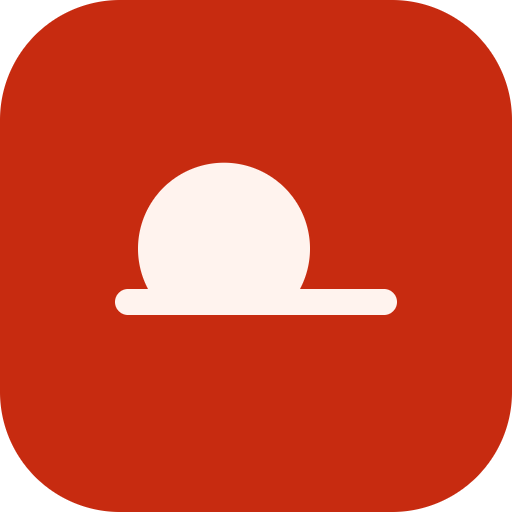
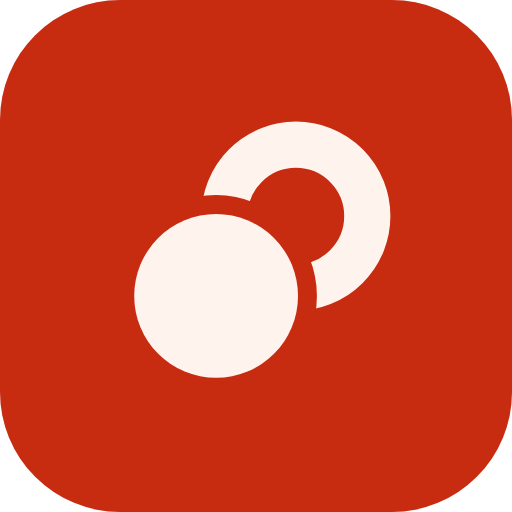
feat: 로고 마크 교체 — 원 둘, 하나는 열려 있다 (#23)
* feat: 로고 마크 교체 — 원 둘, 하나는 열려 있다

플레이스홀더였던 "지평선에 걸린 해" 를 대체한다. 그 마크가 올드하게 읽힌 이유는
이름을 그림으로 그대로 받아 적은 구조였기 때문이다(애프터선셋 → 해 + 지평선).

대신 서비스가 하는 일을 그린다. 한 번에 한 사람만 소개하고(원 둘, 그 이상 없음),
그중 한 사람은 아직 열리지 않았다(윤곽만). 사선으로 놓아 하나는 내려가고 하나는
올라온다 — 저녁을 해 없이 리듬으로만 남긴 자리다.

후보를 실제 크기로 렌더해 비교했다(16·20·24·32·56px, 명/암, 코럴 타일):
- 윤곽 원 둘 → 16px 에서 두 링이 붙어 뭉갠다(앞서 접은 "누운 하트" 와 같은 실패)
- 면 둘 → 이음선이 사라져 땅콩 하나로 읽힌다
- 면 하나 + 링 하나 → 성격이 달라 작아져도 둘로 읽힌다

질량과 선을 대비시키는 것이 같은 것 둘을 나란히 두는 것보다 작은 크기에서 강하다.
이 관찰이 형태를 결정했다.

화면용과 아이콘용을 두 벌로 유지한다. 파비콘이 실제로 그려지는 16px 에서는 타일
여백을 빼면 마크에 10px 남짓만 남아 3.2 두께 링이 사라지므로, 아이콘 쪽은 링을
4.4 로 키웠다. 이음선 구현도 다르다 — mask 를 쓴 SVG 를 PNG 로 뽑으면 링이
팔각형으로 깨져서(래스터라이저가 mask 를 낮은 해상도로 처리한다) 아이콘은 코럴
원을 겹쳐 그려 틈을 만든다. 컴포넌트는 currentColor 라 배경을 모르므로 mask 가 맞다.

- LogoMark 는 useId() 로 mask id 를 만든다. 한 화면에 마크가 둘 이상 있으면
  고정 id 는 먼저 정의된 쪽으로 참조가 몰린다.
- favicon.ico 를 16·32·48 다중 크기로 다시 만들었다. Chrome 은 창이 50px 아래면
  빈 이미지를 내므로 작은 크기는 512 에서 sips 로 축소했다(처음엔 그걸 몰라
  빈 아이콘을 넣었다).
- docs/brand-assets.md — 형태 근거, 두 벌을 유지하는 이유, 자산 재생성 절차,
  빈 이미지를 걸러내는 확인법.

* feat: iOS·앱스토어 아이콘을 사각 전면 원본으로 분리

파비콘 파일을 그대로 앱 아이콘에 쓰면 안 된다. 파비콘은 스스로 둥근 타일(rx=15)
이라 코너가 투명한데, iOS 는 투명을 검게 칠하고 그 위에 자기 스퀴클 마스크를
씌운다 — 둥근 모서리 바깥에 검은 삼각형 네 개가 남는다. 앱스토어 심사도 아이콘의
투명을 받지 않는다.

brand/app-icon-ios.svg 를 따로 둔다. 모서리를 깎지 않고 배경을 전면으로 채운다.

위치·크기도 다시 잡았다. 마크의 bounding box 중심은 (16.6, 15.4) 로 캔버스 중심과
어긋나 있어서 scale 만 주고 균등하게 translate 하면 한쪽으로 몰린다.
translate = 32 - scale × (16.6, 15.4) 로 계산한다. 처음 scale 1.18 로 뽑았더니
[…]

Changed region(s): [[0.2188, 0.2188, 0.7812, 0.75]]

diff --git a/src/components/Logo.tsx b/src/components/Logo.tsx
@@ -1,23 +1,43 @@
+import { useId } from "react";
+
 import { BRAND } from "@/lib/brand";
 import { cn } from "@/lib/utils";
 
 /**
- * 로고 마크 — **교체 예정 자산이다.**
+ * 로고 마크 — 같은 크기의 원 둘. 하나는 채워져 있고 하나는 열려 있다.
  *
- * 지금은 지평선에 걸린 해다. 이름("애프터선셋")을 그림으로 그대로 설명하는
- * 구조인데, 그게 올드하게 읽히는 원인이라는 판단이 나와 새 마크를 외부에서
- * 받기로 했다. 그때까지 자리만 지킨다.
+ * ── 무엇을 그린 것인가 ──
+ * 이름을 그림으로 설명하지 않는다. 앞선 마크(지평선에 걸린 해)가 올드하게 읽힌
+ * 이유가 그것이었다 — "애프터선셋" 을 해와 지평선으로 받아 적은 구조였다.
  *
- * 검토했다가 접은 것 둘 — 기록으로 남긴다:
- *   · **윤슬**(물 위의 빛) 두 줄을 아래에 깔았었다. 24px 까지는 버텼지만,
- *     이름을 그림으로 설명하는 방향 자체를 강화하는 것이라 함께 뺐다.
- *   · **누운 하트 반쪽**으로도 읽히게 만드는 안. 32px 이상에서만 겨우 읽혀
- *     파비콘 크기를 감당하지 못했다.
+ * 대신 이 서비스가 하는 일을 그린다. 한 번에 **한 사람만** 소개하고(원 둘, 그
+ * 이상 없음), 그중 한 사람은 **아직 열리지 않았다**(윤곽만). 사선으로 놓아
+ * 하나는 내려가고 하나는 올라오게 했다 — 저녁이라는 시간을 해를 그리지 않고
+ * 리듬으로만 남긴 자리다.
+ *
+ * ── 왜 면 + 선인가 ──
+ * 후보를 실제 크기로 렌더해 비교했다(16·20·24·32·56px, 명/암, 코럴 타일).
+ *   · 윤곽 원 둘: 16px 에서 두 링이 붙어 뭉갠다. 앞서 접은 "누운 하트" 와 같은 실패.
+ *   · 면 둘: 16px 에서 이음선이 사라져 땅콩 하나로 읽힌다.
+ *   · **면 하나 + 링 하나**: 두 요소의 성격이 달라 작아져도 둘로 읽힌다.
+ * 질량과 선을 대비시키는 것이 같은 것 둘을 나란히 두는 것보다 작은 크기에서
+ * 강하다 — 이 마크의 형태를 결정한 관찰이다.
+ *
+ * 겹치는 자리는 mask 로 잘라 이음선을 만든다. 링을 그냥 얹으면 채운 원과 붙어
+ * 한 덩이가 된다.
  *
  * currentColor 를 쓴다 — 얹히는 자리(코럴 배경의 앱 아이콘, 종이 배경의 헤더)에
- * 따라 색을 물려받아야 한다. 새 마크도 이 조건은 유지해야 한다.
+ * 따라 색을 물려받아야 한다.
+ *
+ * ⚠ 파비콘은 이 파일이 아니라 public/favicon.svg 가 따로 들고 있다. 16px 타일
+ * 안에서는 마크가 10px 남짓으로 들어가 링이 버티지 못해서, 그쪽은 링을 더 두껍게
+ * 뽑은 별도 자산이다. 이 마크를 고치면 그 파일도 함께 고쳐야 한다.
  */
 export function LogoMark({ className }: { className?: string }) {
+  // 한 화면에 마크가 둘 이상 있을 수 있다(헤더 + 푸터). id 가 겹치면 mask 참조가
+  // 먼저 정의된 쪽으로 몰린다.
+  const maskId = `logo-seam-${useId()}`;
+
   return (
     <svg
       viewBox="0 0 32 32"
@@ -25,12 +45,20 @@ export function LogoMark({ className }: { className?: string }) {
       aria-hidden="true"
       className={cn("size-7 text-primary", className)}
     >
-      {/* 지평선 위로 드러난 부분만 남긴다 */}
-      <clipPath id="after-horizon">
-        <rect x="0" y="0" width="32" height="20.6" />
-      </clipPath>
-      <circle cx="12.8" cy="15.27" r="8.6" fill="currentColor" clipPath="url(#after-horizon)" />
-      <path d="M3.2 20.6h25.6" stroke="currentColor" strokeWidth="2.6" strokeLinecap="round" />
+      {/* 채운 원보다 조금 크게 파서 두 원 사이에 빈 틈을 남긴다 */}
+      <mask id={maskId}>
+        <rect width="32" height="32" fill="#fff" />
+        <circle cx="12.2" cy="19.8" r="9.2" fill="#000" />
+      </mask>
+      <circle
+        cx="19.8"
+        cy="12.2"
+        r="7.4"
+        stroke="currentColor"
+        strokeWidth="3.2"
+        mask={`url(#${maskId})`}
+      />
+      <circle cx="12.2" cy="19.8" r="7.8" fill="currentColor" />
     </svg>
   );
 }

diff --git a/docs/brand-assets.md b/docs/brand-assets.md
@@ -1,0 +1,160 @@
+# 브랜드 자산
+
+로고 마크를 고칠 때 함께 다시 뽑아야 하는 것들과, 뽑는 방법.
+
+---
+
+## 마크
+
+**같은 크기의 원 둘. 하나는 채워져 있고 하나는 열려 있다.**
+
+이름을 그림으로 설명하지 않는다 — 앞선 마크(지평선에 걸린 해)가 올드하게 읽힌
+이유가 그것이었다. 대신 서비스가 하는 일을 그린다. 한 번에 **한 사람만**
+소개하고(원 둘, 그 이상 없음), 그중 한 사람은 **아직 열리지 않았다**(윤곽만).
+사선으로 놓아 하나는 내려가고 하나는 올라온다 — 저녁이라는 시간을 해를 그리지
+않고 리듬으로만 남긴 자리다.
+
+### 왜 면 + 선인가
+
+후보를 실제 크기로 렌더해 비교했다(16·20·24·32·56px, 명/암, 코럴 타일).
+
+| 안 | 16px 결과 |
+|---|---|
+| 윤곽 원 둘 | 두 링이 붙어 뭉갠다. 앞서 접은 "누운 하트" 와 같은 실패 |
+| 면 둘 | 이음선이 사라져 땅콩 하나로 읽힌다 |
+| **면 하나 + 링 하나** | 두 요소의 성격이 달라 작아져도 둘로 읽힌다 |
+
+질량과 선을 대비시키는 것이 같은 것 둘을 나란히 두는 것보다 작은 크기에서 강하다.
+이 관찰이 형태를 결정했다.
+
+### 세 벌로 유지한다
+
+| | 파일 | 배경 | 이음선 | 링 두께 |
+|---|---|---|---|---|
+| 화면 | `src/components/Logo.tsx` | 없음(`currentColor`) | `mask` | 3.2 |
+| 파비콘 | `public/favicon.svg` | 둥근 타일(`rx=15`) | 코럴 원 겹쳐 그리기 | 4.4 |
+| 앱 아이콘 | `brand/app-icon-ios.svg` | **사각 전면** | 코럴 원 겹쳐 그리기 | 4.4 |
+
+**앱 아이콘이 따로 있는 이유**: 파비콘은 스스로 둥근 타일이라 코너가 투명하다.
+iOS 는 투명을 검게 칠하고 그 위에 자기 스퀴클 마스크를 씌우므로, 같은 파일을 쓰면
+둥근 모서리 바깥에 **검은 삼각형 네 개**가 남는다. 앱스토어 심사도 아이콘의 투명을
+받지 않는다. 앱 아이콘은 모서리를 깎지 않고 배경을 전면으로 채운다 — 둥글리는 일은
+OS 가 한다.
+
+마크 위치도 다르다. bounding box 중심이 캔버스 중심과 어긋나 있어(아래 참고) scale
+만 주면 한쪽으로 몰린다.
+
+    마크 bbox(32 단위): x 4.4~28.8, y 3.2~27.6 → 중심 (16.6, 15.4)
+    translate = 32 - scale × (16.6, 15.4)
+
+앱 아이콘은 `scale 1.45` 로 마크가 캔버스의 **약 55%** 다. 처음 1.18 로 뽑았더니
+46% 로 작아 아이콘 안에서 겉돌았다(관례는 55~60%).
+
+- **치수가 다른 이유**: 파비콘이 실제로 그려지는 크기는 16px 이고, 타일 안쪽 여백을
+  빼면 마크에 10px 남짓만 남는다. 그 크기에서 3.2 두께 링은 사라진다.
+- **구현이 다른 이유**: `mask` 를 쓴 SVG 를 PNG 로 뽑으면 **링이 팔각형으로 깨진다**
+  (래스터라이저가 mask 를 낮은 해상도로 처리한다). 배경색을 아는 자산이라 겹쳐
+  그리기가 가능하고, 그 편이 어떤 변환기를 거쳐도 안전하다. 컴포넌트는
+  `currentColor` 라 배경을 모르므로 그쪽은 mask 가 맞다.
+
+하나로 맞추려면 큰 화면의 마크가 둔해지거나 파비콘이 뭉개지는 것 중 하나를
+골라야 했다. 두 벌 유지가 그보다 싸다.
+
+---
+
+## 다시 뽑는 방법
+
+`public/favicon.svg` 가 모든 래스터 자산의 원본이다. 그것만 고친 뒤 아래를 돌린다.
+
+```bash
+CHROME="/Applications/Google Chrome.app/Contents/MacOS/Google Chrome"
+SVG="$PWD/public/favicon.svg"
+TMP=$(mktemp -d)
+
+# 큰 것은 Chrome 으로 직접 렌더한다.
+# ⚠ 창 크기가 50px 아래면 Chrome 이 빈 이미지를 낸다 — 작은 것은 축소로 만든다.
+for S in 512 1024; do
+  "$CHROME" --headless --disable-gpu --force-device-scale-factor=1 \
+    --screenshot="$TMP/icon-$S.png" --window-size=$S,$S \
+    --default-background-color=00000000 "file://$SVG"
+done
+
+# 작은 것은 512 에서 축소한다(sips 는 macOS 기본 도구).
+for S in 16 32 48 180; do
+  cp "$TMP/icon-512.png" "$TMP/r-$S.png" && sips -z $S $S "$TMP/r-$S.png"
+done
+
+cp "$TMP/r-180.png"    public/apple-touch-icon.png
+cp "$TMP/icon-512.png" public/icon-512.png
+```
+
+앱 아이콘은 **원본이 다르다**(`brand/app-icon-ios.svg`). 투명이 없어야 하므로
+배경을 흰색으로 지정해 렌더한다 — `--default-background-color=00000000` 을 쓰면
+알파 채널이 생긴다.
+
+```bash
+"$CHROME" --headless --disable-gpu --force-device-scale-factor=1 \
+  --screenshot="$TMP/ios-1024.png" --window-size=1024,1024 \
+  --default-background-color=ffffffff "file://$PWD/brand/app-icon-ios.svg"
+
+cp "$TMP/ios-1024.png" brand/app-store-1024.png
+cp "$TMP/ios-1024.png" \
+   'ios/App/App/Assets.xcassets/AppIcon.appiconset/AppIcon-512@2x.png'
+```
+
+`favicon.ico` 는 16·32·48 을 한 파일에 담아야 한다(윈도우·구형 브라우저가
+크기별로 골라 쓴다). 표준 라이브러리로 직접 조립한다.
+
+```bash
+python3 - "$TMP" <<'PY'
+import struct, sys
+tmp = sys.argv[1]
+imgs = [(s, open(f'{tmp}/r-{s}.png', 'rb').read()) for s in (16, 32, 48)]
+head = struct.pack('<HHH', 0, 1, len(imgs))
+offset, entries, blobs = 6 + 16 * len(imgs), bytearray(), bytearray()
+for s, data in imgs:
+    entries += struct.pack('<BBBBHHII', s, s, 0, 0, 1, 32, len(data), offset)
+    blobs += data
+    offset += len(data)
+open('public/favicon.ico', 'wb').write(head + bytes(entries) + bytes(blobs))
+PY
+```
+
+### 확인
+
+- `favicon.ico` 안의 PNG 가 실제로 그려졌는지 본다 — 빈 이미지도 구조는 유효하다.
+  16x16 이 700바이트 아래면 의심한다(코럴 타일이 있으므로 그보다 작아질 수 없다).
+- 밝은 탭바·어두운 탭바 양쪽에서 실루엣이 남는지 본다.
+- iOS·앱스토어 아이콘에 **알파 채널이 없어야 한다.** PNG color type 이 2(RGB)여야
+  하고 6(RGBA)이면 안 된다.
+
+  ```bash
+  python3 -c "
+  import struct; d=open('brand/app-store-1024.png','rb').read()
+  print('color type', struct.unpack('>IIBB', d[16:26])[3], '(2=RGB 정상, 6=RGBA 문제)')"
+  ```
+
+- 시뮬레이터 홈 화면에서 실제로 본다 — 코너에 검은 삼각형이 없어야 한다.
+
+---
+
+## 워드마크
+
+`BRAND.nameEn` = **After Sunset**. 정식 라틴 표기이며 소문자로 쓰지 않는다
+(고유명사). 도메인이 `aftersunset.kr` 이므로 표기와 도메인이 한 브랜드로 읽힌다.
+
+한국어는 두 층으로 쓴다 — 정식 `애프터선셋`, 본문·메일 `애프터`. 근거는
+`src/lib/brand.ts` 에 적혀 있다(6음절이 길고, "애프터" 가 한국어 데이팅 은어와
+겹치는 것이 오히려 유리하다).
+
+---
+
+## 색
+
+| 용도 | 값 |
+|---|---|
+| 마크·강조 | `#c72b10` (= `--brand-700`) |
+| 타일 위 마크 | `#FFF3EE` |
+
+`--brand-700` 은 대비 기준을 통과시키려 한 번 조정된 값이다(`src/styles.css` 참고).
+아이콘 자산에는 hex 를 직접 쓴다 — SVG 파일은 CSS 변수를 읽을 수 없다.
